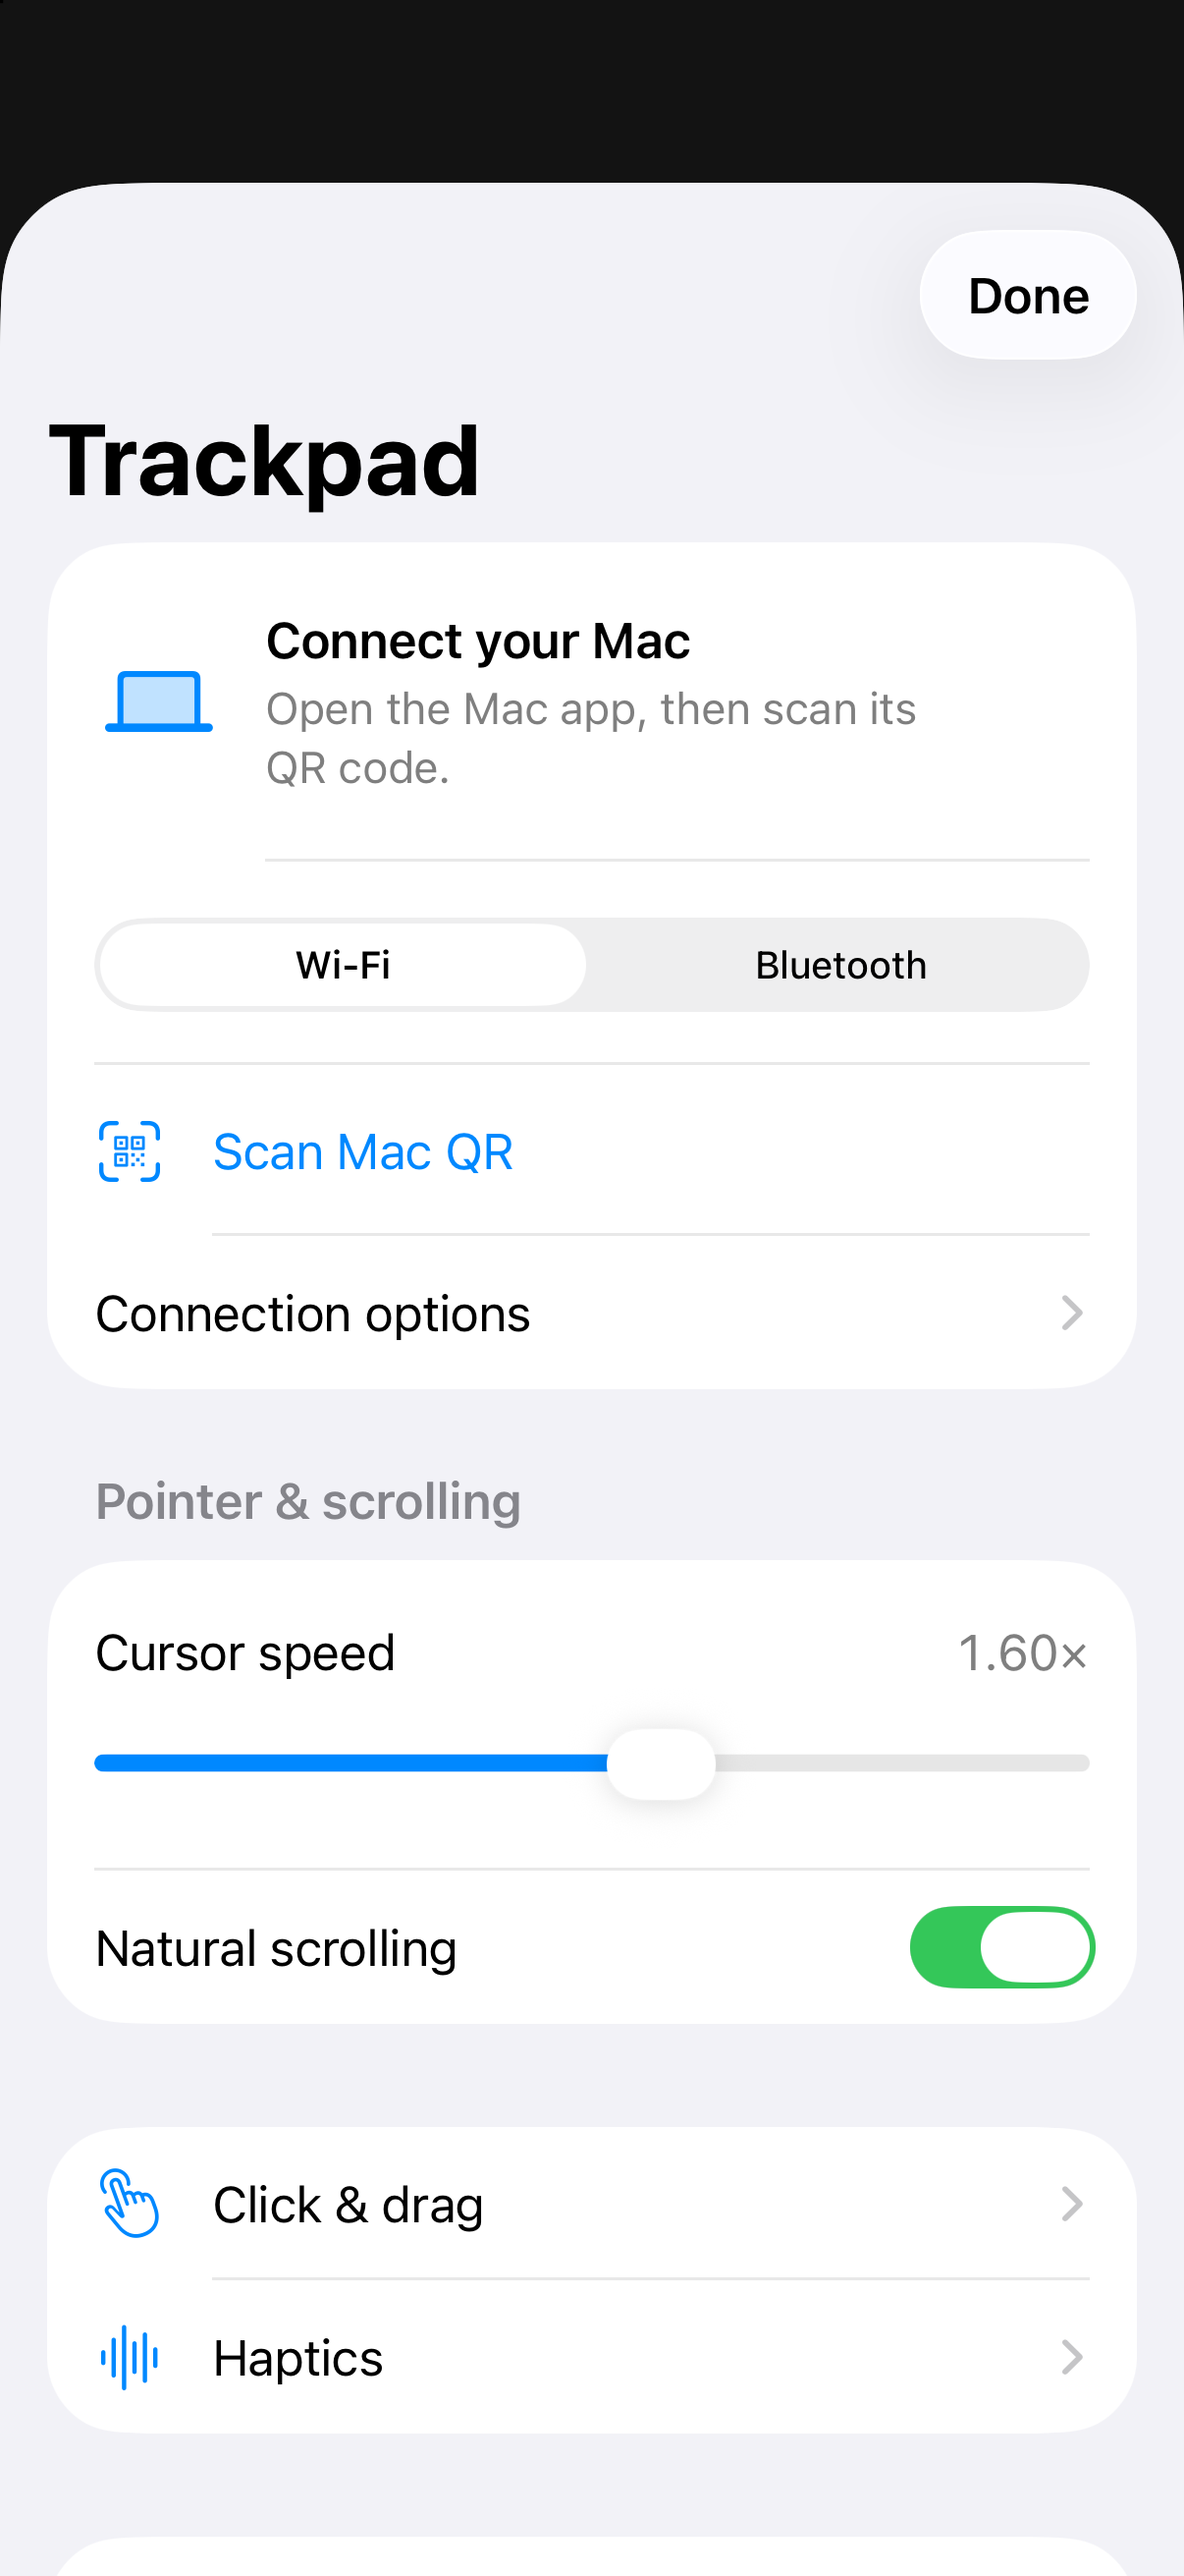
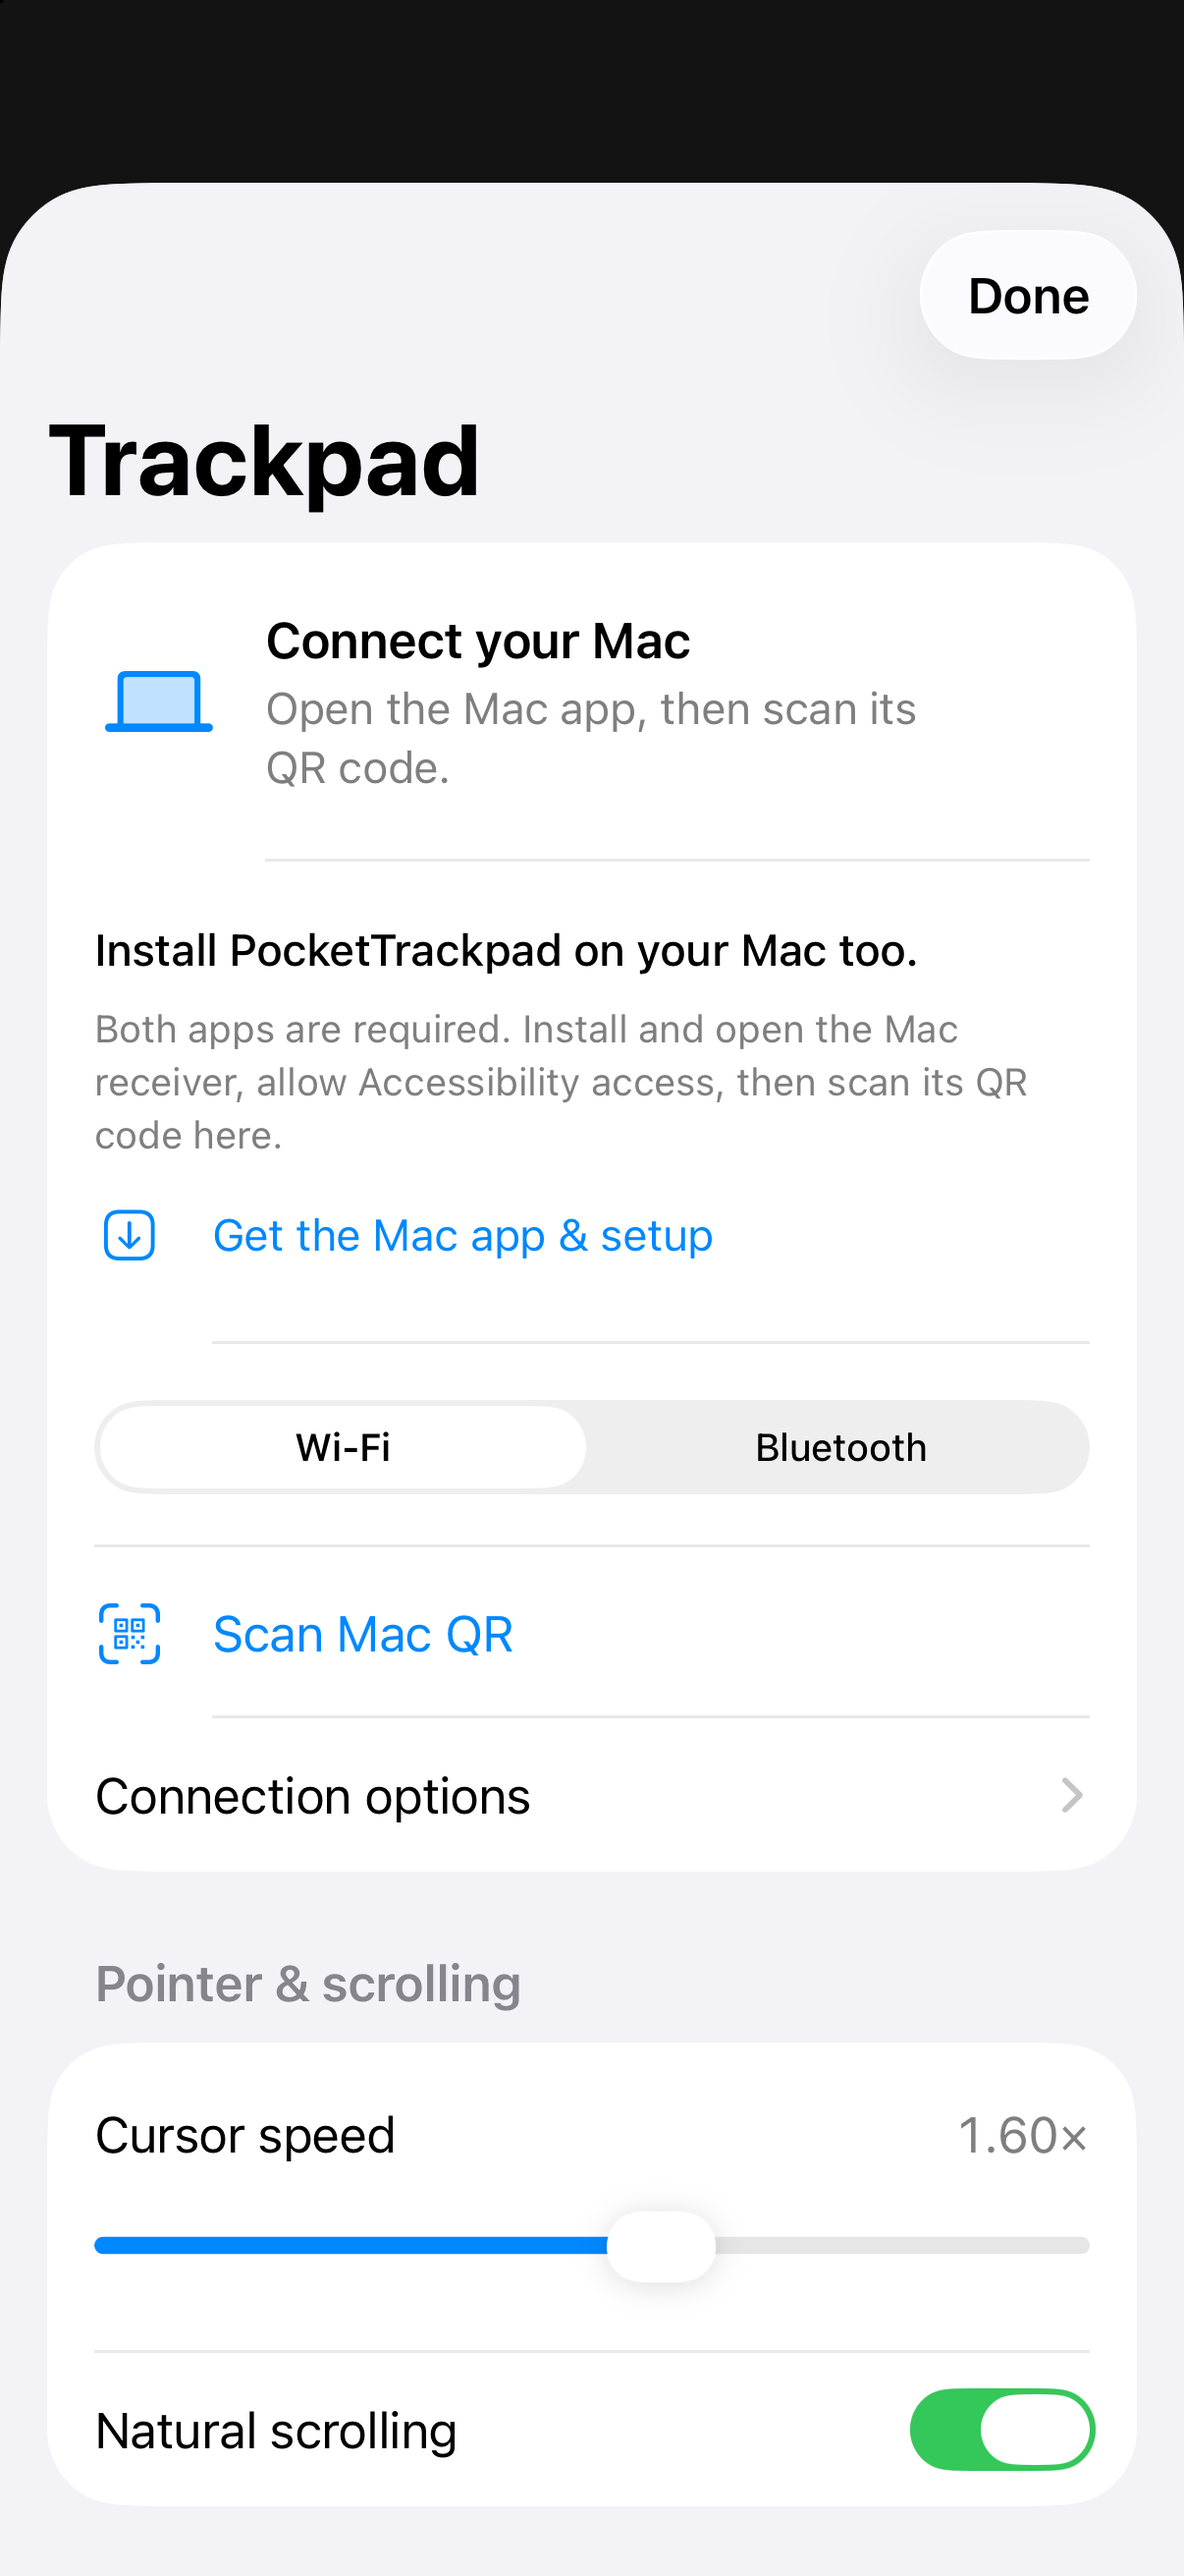
Explain the Mac companion requirement and preserve active connection status

diff --git a/Host.swift b/Host.swift
@@ -244,6 +244,7 @@ final class Host:NSObject,NSApplicationDelegate,NSWindowDelegate {
     private var status:NSTextField!
     private var pairingLink=""
     private var hidAfterConnection=false
+    private var connectionState=HostConnectionState()
     #if POCKET_LOCAL_TEST
     private var pageTestTimer:Timer?
     @objc private func testWheel(){runPageTest(companion:false)}
@@ -275,16 +276,17 @@ final class Host:NSObject,NSApplicationDelegate,NSWindowDelegate {
         }
         return result
     }
-    private func report(_ text:String){
+    private func report(_ text:String,from transport:HostTransport){
         DispatchQueue.main.async{[weak self] in
             guard let self else{return}
-            self.status.stringValue=MacText(text)
+            self.connectionState.update(text,from:transport)
+            self.status.stringValue=MacText(self.connectionState.message)
             if text=="Wi-Fi connected" || text=="Bluetooth connected" {
                 // A fresh authenticated session hides a QR reopened after an earlier session.
                 if self.engine.handle(["type":"status"])=="ready" {
                     self.hidAfterConnection=true;self.window.orderOut(nil)
                 }
-            } else if text=="Waiting for iPhone" {
+            } else if !self.connectionState.connected {
                 self.hidAfterConnection=false
             }
         }
@@ -320,8 +322,8 @@ final class Host:NSObject,NSApplicationDelegate,NSWindowDelegate {
                 filter.setValue(Data(pairingLink.utf8),forKey:"inputMessage");filter.setValue("M",forKey:"inputCorrectionLevel")
                 if let output=filter.outputImage?.transformed(by:CGAffineTransform(scaleX:8,y:8)),let cg=CIContext().createCGImage(output,from:output.extent){qr.image=NSImage(cgImage:cg,size:NSSize(width:184,height:184))}
             }
-            wifi=try NativeWiFiHost(token:key,apply:{[weak self] in self?.apply($0) ?? "invalid"},report:{[weak self] in self?.report($0)})
-            bluetooth=BLEReverseHost(apply:{[weak self] in self?.apply($0) ?? "invalid"},report:{[weak self] in self?.report($0)})
+            wifi=try NativeWiFiHost(token:key,apply:{[weak self] in self?.apply($0) ?? "invalid"},report:{[weak self] in self?.report($0,from:.wifi)})
+            bluetooth=BLEReverseHost(apply:{[weak self] in self?.apply($0) ?? "invalid"},report:{[weak self] in self?.report($0,from:.bluetooth)})
         }catch{status.stringValue=MacText("Could not start. Reopen PocketTrackpad.")}
         permissionTimer=Timer.scheduledTimer(withTimeInterval:1,repeats:true){[weak self] _ in
             self?.window.title=AXIsProcessTrusted() ? "PocketTrackpad for Mac":MacText("PocketTrackpad · Enable Mac control")

diff --git a/native-ios/Sources/PocketTrackpadApp.swift b/native-ios/Sources/PocketTrackpadApp.swift
@@ -59,6 +59,17 @@ struct SettingsSheet:View {
                         Spacer(minLength:0)
                         if client.ready {Image(systemName:"checkmark.circle.fill").foregroundStyle(.green).accessibilityHidden(true)}
                     }.padding(.vertical,8)
+                    if !client.ready {
+                        VStack(alignment:.leading,spacing:10) {
+                            Text(PTText("Install PocketTrackpad on your Mac too.")).font(.subheadline).fontWeight(.medium)
+                            Text(PTText("Both apps are required. Install and open the Mac receiver, allow Accessibility access, then scan its QR code here."))
+                                .font(.footnote).foregroundStyle(.secondary)
+                            Link(destination:URL(string:"https://pocket-trackpad.doohyun726675.chatgpt.site/support.html")!) {
+                                Label(PTText("Get the Mac app & setup"),systemImage:"arrow.down.app")
+                                    .frame(minHeight:32)
+                            }.font(.subheadline)
+                        }.padding(.vertical,6)
+                    }
                     Picker(PTText("Connection"),selection:$client.transport) {
                         ForEach(TrackpadClient.Transport.allCases,id:\.self) { mode in Text(PTText(mode.rawValue)).tag(mode) }
                     }.pickerStyle(.segmented).padding(.vertical,4)

diff --git a/Tests/ConnectionState/main.swift b/Tests/ConnectionState/main.swift
@@ -1,0 +1,21 @@
+import Foundation
+var failures=0
+func check(_ value:Bool,_ label:String){print("\(value ? "PASS":"FAIL") \(label)");if !value{failures+=1}}
+var wifi=HostConnectionState()
+wifi.update("Wi-Fi connected",from:.wifi)
+wifi.update("Waiting for iPhone",from:.bluetooth)
+check(wifi.message == "Wi-Fi connected" && wifi.connected,"idle Bluetooth must not replace an authenticated Wi-Fi connection")
+var bluetooth=HostConnectionState()
+bluetooth.update("Bluetooth connected",from:.bluetooth)
+bluetooth.update("Wi-Fi unavailable",from:.wifi)
+check(bluetooth.message == "Bluetooth connected" && bluetooth.connected,"Wi-Fi failure must not replace an authenticated Bluetooth connection")
+bluetooth.update("Waiting for iPhone",from:.bluetooth)
+check(!bluetooth.connected,"disconnecting the active channel clears connected state")
+var both=HostConnectionState()
+both.update("Wi-Fi connected",from:.wifi)
+both.update("Bluetooth connected",from:.bluetooth)
+both.update("Waiting for iPhone",from:.wifi)
+check(both.connected && both.message == "Bluetooth connected","disconnecting one channel preserves the other live channel")
+both.update("Waiting for iPhone",from:.bluetooth)
+check(!both.connected && both.message == "Waiting for iPhone","all disconnected returns to waiting")
+exit(failures==0 ? 0:1)

diff --git a/ConnectionState.swift b/ConnectionState.swift
@@ -1,0 +1,23 @@
+import Foundation
+
+enum HostTransport:CaseIterable {case wifi, bluetooth}
+
+/// Keeps an idle transport from replacing another transport's live session.
+struct HostConnectionState {
+    private var messages=[HostTransport:String]()
+    private(set) var message="Waiting for iPhone"
+    var connected:Bool {HostTransport.allCases.contains{isConnected(messages[$0])}}
+
+    mutating func update(_ text:String,from transport:HostTransport) {
+        messages[transport]=text
+        if let active=HostTransport.allCases.compactMap({messages[$0]}).first(where:isConnected) {
+            message=active
+        } else {
+            message=text
+        }
+    }
+
+    private func isConnected(_ text:String?)->Bool {
+        text == "Wi-Fi connected" || text == "Bluetooth connected"
+    }
+}

diff --git a/README.md b/README.md
@@ -15,9 +15,11 @@ An iPhone controller and a native Mac receiver. Move, click, scroll, zoom, and s
 1. Install the iPhone controller and the separate Mac receiver. The iPhone release is currently awaiting App Store review; it is not publicly available yet.
 2. Open the Mac receiver. Allow it in **System Settings → Privacy & Security → Accessibility**.
 3. Scan the Mac QR code from the iPhone app. Choose **Wi-Fi** on the same local network, or **Bluetooth** nearby.
-4. Keep the iPhone app open and start moving. The Mac window hides after connection; reopening the Mac app shows the QR again. The iPhone Settings sheet stays open until you dismiss it.
+4. Keep the iPhone app open and start moving. The Mac window hides after connection; reopening the Mac app shows its connection status and QR again. The iPhone Settings sheet stays open until you dismiss it.
 
 The Mac download is signed with Developer ID and notarized by Apple. The source build uses local ad hoc signing unless you supply your own signing identity.
+
+The first connection screen explains that both apps are required and links directly to the Mac download and setup guide.
 
 ## A familiar set of gestures
 
@@ -92,6 +94,7 @@ The first command exercises gesture recognition, wire validation, motion playbac
 native-ios/       iPhone app, Xcode project, gesture tests
 shared/           Framing, secure connection setup, Bluetooth wire format
 Host.swift        Native Mac receiver and input application
+ConnectionState.swift
 MotionPlayback.swift
 NativeScroll.swift
 NativeMagnify.m

diff --git a/docs/architecture.md b/docs/architecture.md
@@ -21,6 +21,10 @@ The Mac generates and retains a pairing key locally. Its QR carries the address 
 
 The protocol validates frame lengths, identifiers, event kinds, finite numeric values, and gesture phases. Disconnects release active input. The current receiver does not depend on the historical browser/Python prototype.
 
+## Connection presentation
+
+The receiver keeps Wi-Fi and Bluetooth status separately. An idle or failed transport must not overwrite the other transport’s authenticated connection. The same connection reducer is covered by regression tests.
+
 ## Native delivery
 
 The receiver needs macOS Accessibility authorization. Pointer and scroll events use native event delivery. `NativeMagnify.m`, `NativeScroll.swift`, and `NativeDockSwipe.c` isolate gesture adapters, including undocumented serialized events. Their behavior is OS-dependent. Changes here require meaningful regression checks and manual validation in real receiving apps.
